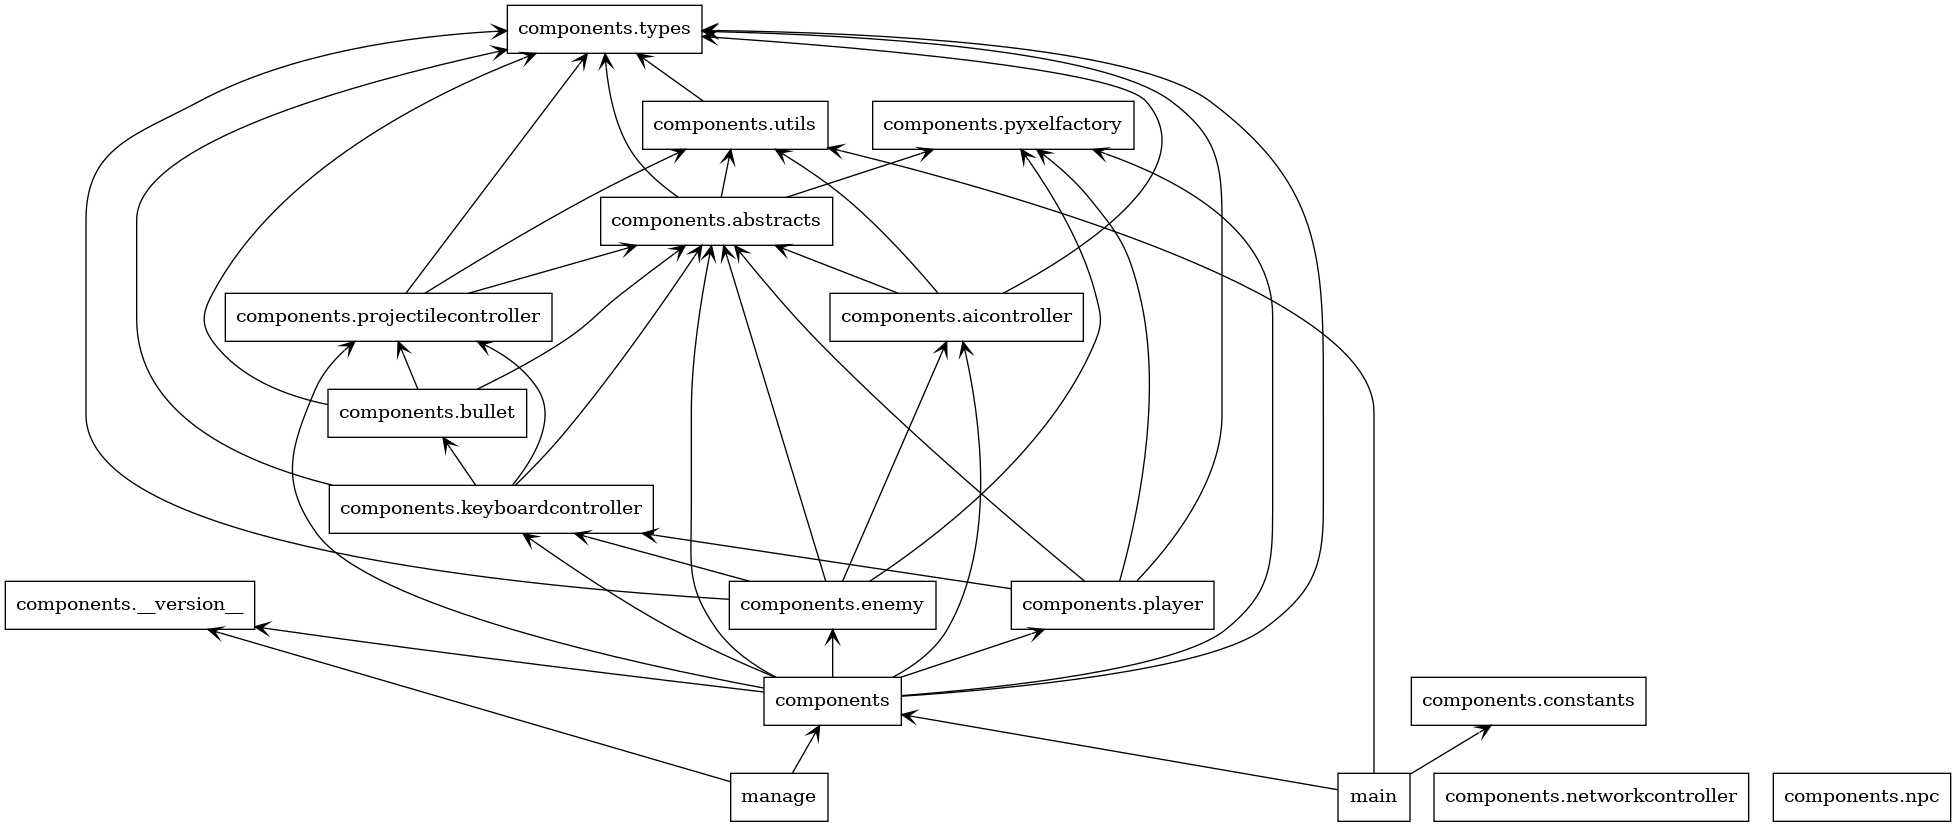
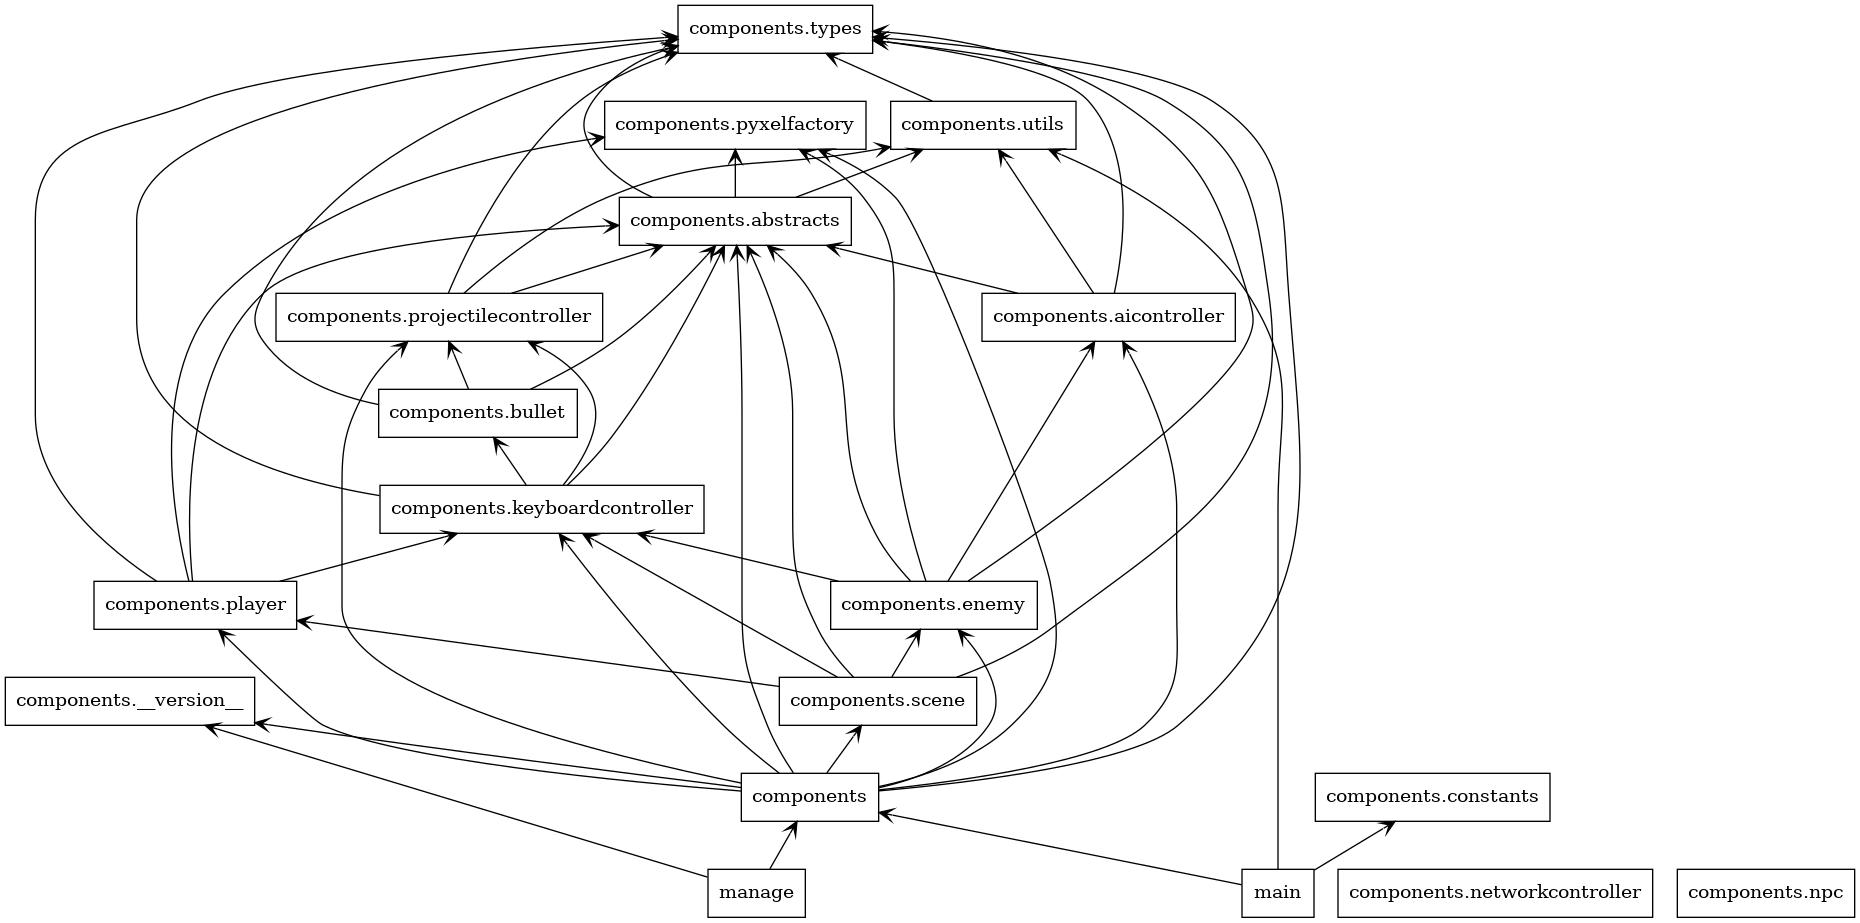
rebuilt uml + version bump (#36)

diff --git a/src/components/__version__.py b/src/components/__version__.py
@@ -3,6 +3,6 @@
 __title__ = "Resurrection Man"
 __description__ = "Grave robbing and other fun things"
 __url__ = "https://github.com/Murder-Hobo-Interactive/resurrection-man"
-__version__ = (0, 0, 0)
+__version__ = (0, 1, 0)
 __author__ = "Chris Palmer"
 __author_email__ = "capalmer1013@gmail.com"
